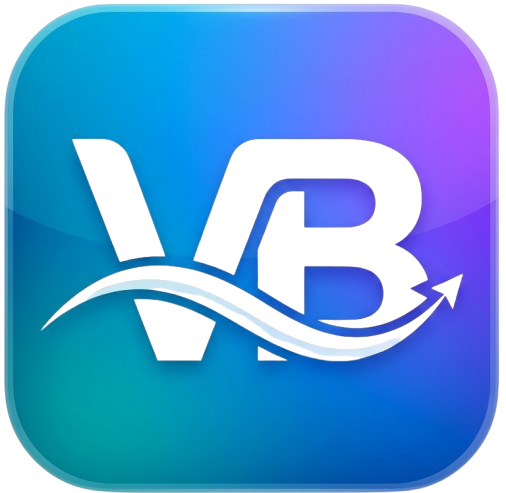
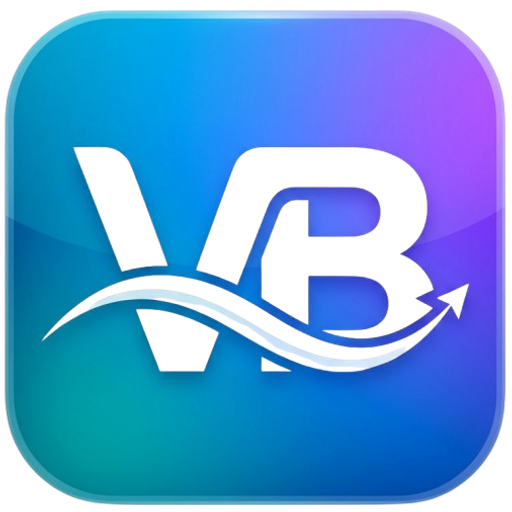
mac os and admin bug fix

diff --git a/src/components/layout/Sidebar.svelte b/src/components/layout/Sidebar.svelte
@@ -146,6 +146,21 @@
         }
     });
 
+    // Listen for monitoring-started from Staff Monitoring child window
+    $effect(() => {
+        if (window.api?.onParentMessage) {
+            const cleanup = window.api.onParentMessage('monitoring-started', async (data) => {
+                console.log('[Sidebar] Monitoring started:', data);
+                if (data?.userId) {
+                    await workspaceStore.startMonitoring(data.userId);
+                    toastStore.success(`Monitoring ${data.userName || 'user'}'s profiles`);
+                }
+            });
+
+            return cleanup;
+        }
+    });
+
     function toggleAddModal(e) {
         if (e) {
             e.stopPropagation();